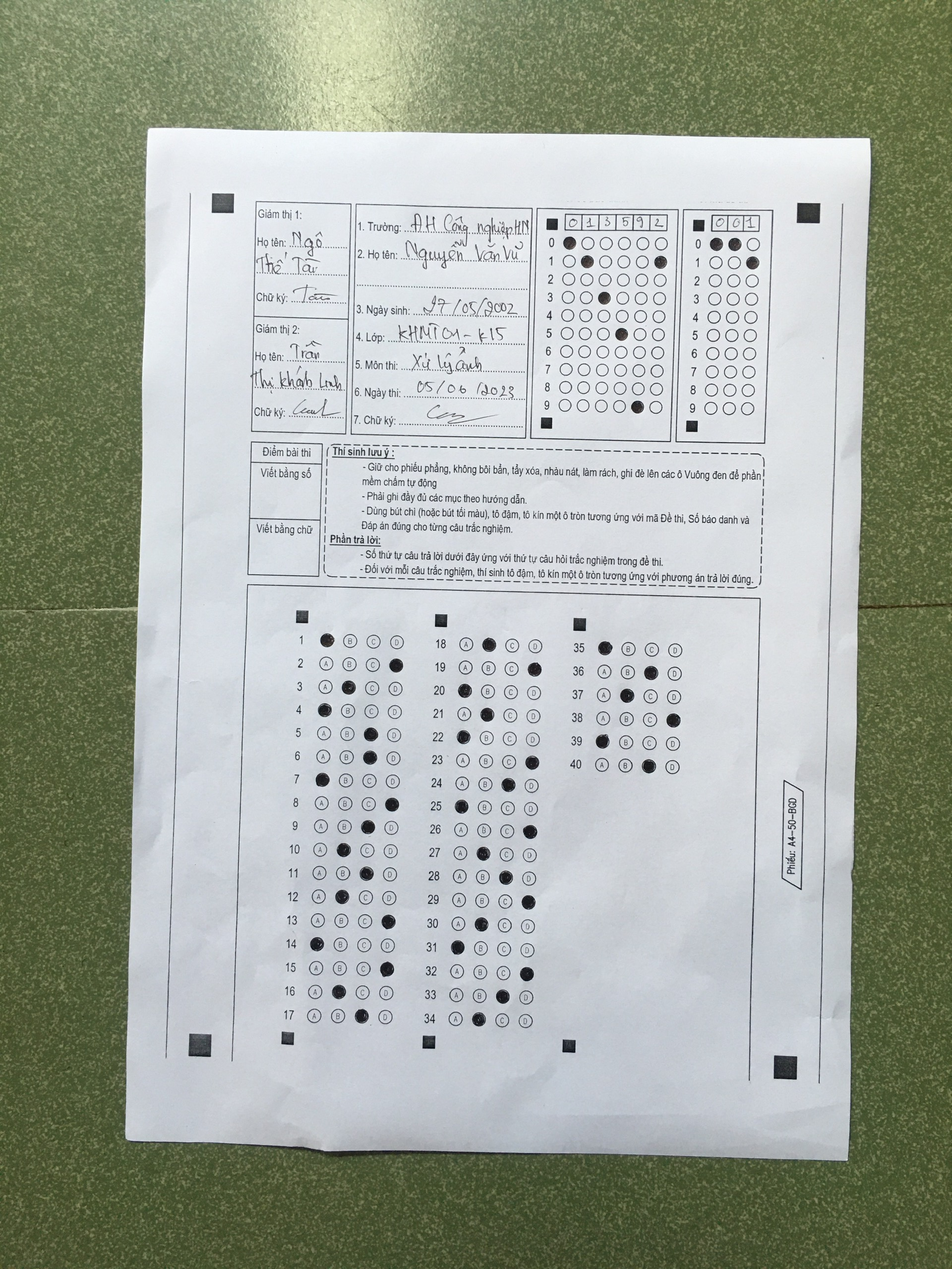
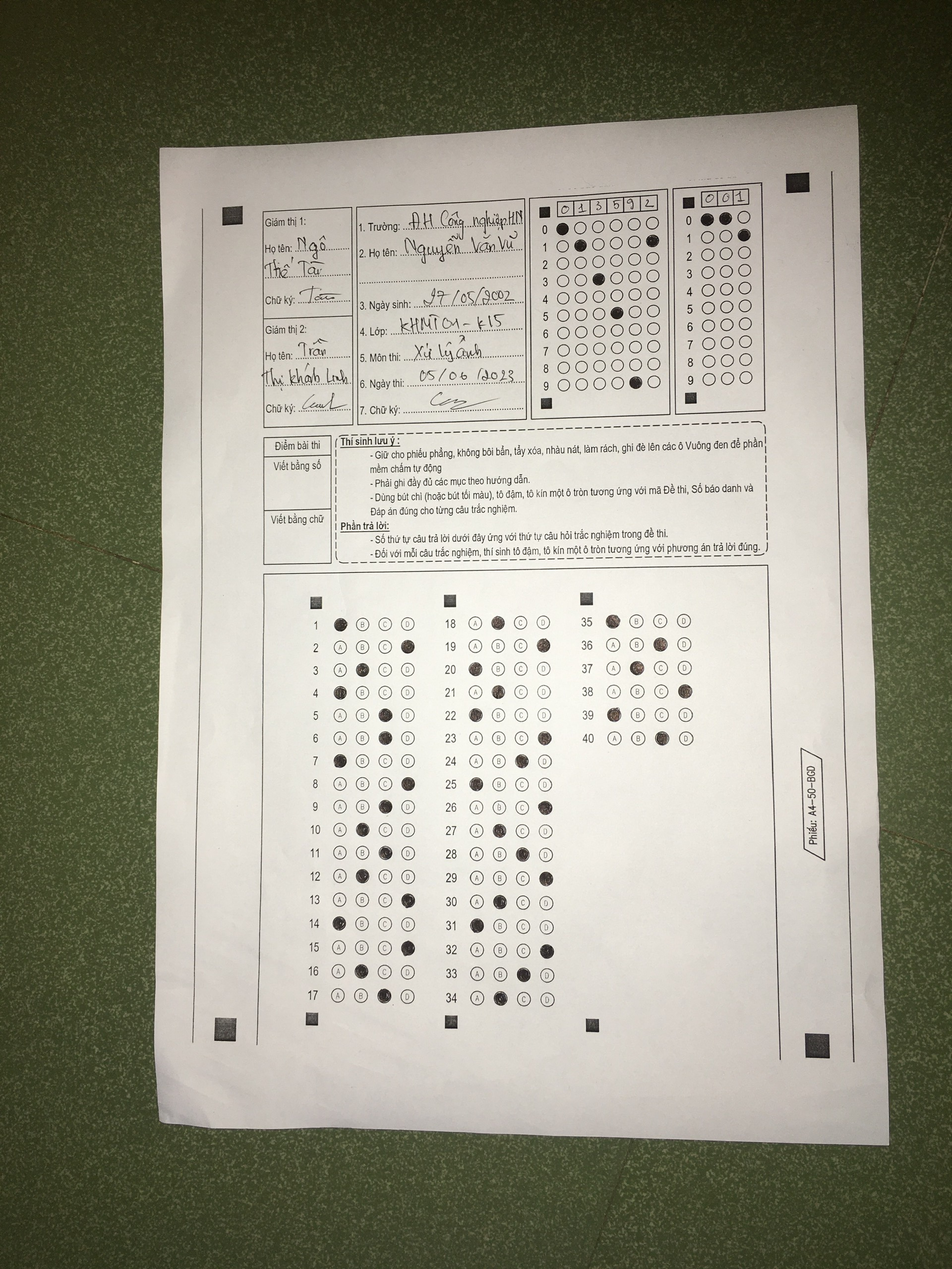
update

diff --git a/main.py b/main.py
@@ -4,20 +4,45 @@ import matplotlib.pyplot as plt
 from lib.threshold import auto_threshold
 from lib.morphological import change_brightness, erode, dilate
 
-image = cv2.imread("dataset\\IMAGE\\002.jpg")
-gray = cv2.cvtColor(image, cv2.COLOR_BGR2GRAY)
+def nothing(x):
+    pass
+
+def tracking_white(image, origin=None):
+    # temp = cv2.cvtColor(image,cv2.COLOR_GRAY2RGB)
+    hsv = cv2.cvtColor(image, cv2.COLOR_BGR2HSV)
+    sensitivity = 80
+    lower_white = np.array([0,0,255-sensitivity])
+    upper_white = np.array([255,sensitivity,255])
+    mask = cv2.inRange(hsv, lower_white, upper_white)
+    res = cv2.bitwise_and(image,image, mask= mask)
+    return res
 
 
+image = cv2.imread("dataset\\IMAGE\\004.jpg")
+res = tracking_white(image)
+gray = cv2.cvtColor(res, cv2.COLOR_HSV2BGR)
+gray = cv2.cvtColor(res, cv2.COLOR_BGR2GRAY)
 gray = cv2.bilateralFilter(gray, 20, 70, 70)
+img = cv2.adaptiveThreshold(gray, 255, cv2.ADAPTIVE_THRESH_GAUSSIAN_C, cv2.THRESH_BINARY, 113, 3)
 
-img = cv2.adaptiveThreshold(gray, 255, cv2.ADAPTIVE_THRESH_GAUSSIAN_C, cv2.THRESH_BINARY, 151, 4)
+edges_image = cv2.morphologyEx(img, cv2.MORPH_CLOSE, np.ones((5, 5)), iterations= 3)
 
-edges_image = cv2.morphologyEx(img, cv2.MORPH_CLOSE, np.ones((5, 5)), iterations= 5)
+
+
+
 
 # contours, hierarchy = cv2.findContours(edges_image.copy(), cv2.RETR_TREE, cv2.CHAIN_APPROX_SIMPLE)
 
 # print(contours)
+fig, ax = plt.subplots(nrows= 1, ncols= 3)
+ax[0].imshow(image[:, :, ::-1])
+ax[0].axis('off')
+ax[1].imshow(res[:, :, ::-1])
+ax[1].axis('off')
+ax[2].imshow(edges_image, cmap='gray')
+ax[2].axis('off')
 
-plt.imshow(edges_image, cmap='gray')
-plt.axis('off')
+ax[0].set_title("Ảnh ban đầu")
+ax[1].set_title("Ảnh lọc màu trắng")
+ax[2].set_title("Ảnh phân ngưỡng")
 plt.show()

diff --git a/README.md b/README.md
@@ -16,18 +16,23 @@ vn: kiến thức sử dụng trong dự án này là dùng kĩ thuật xử lý
 - bilateralFilter   : Lọc song phương -> làm mờ các pixel có cường độ tương tụ trong một vùng lân cận
 
 
+- Document Scanner:
+
+  + Edge detection
+  
+  + Dilation
+
+  + Contours
+
+  + Reoder
+
+
 # Result
 
 
 - Thresholding result [05/06/2023]:
 
-<div style="margin: auto;">
-  <h2> 
-  <img src="dataset/IMAGE/001.jpg" width="400" height="480"</img> 
-  <img src="demo/threshold.png" width="640" height="480"</img> 
-       
-  </h2>
-</div>
+![a](demo/demo1.png)
 
 
 # References
